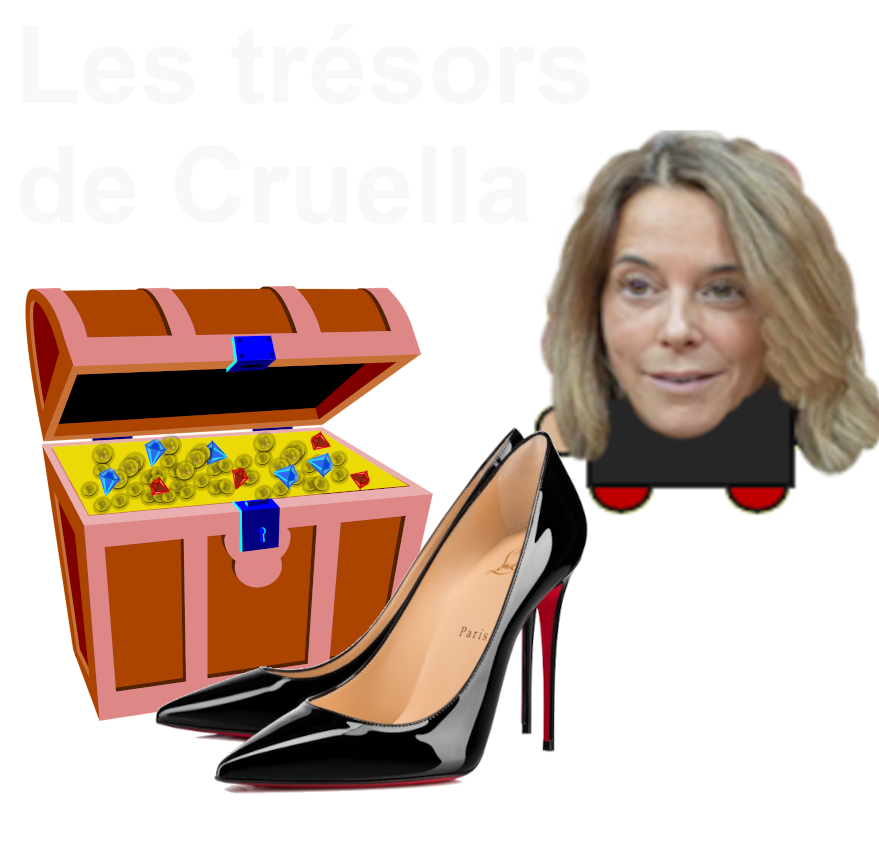
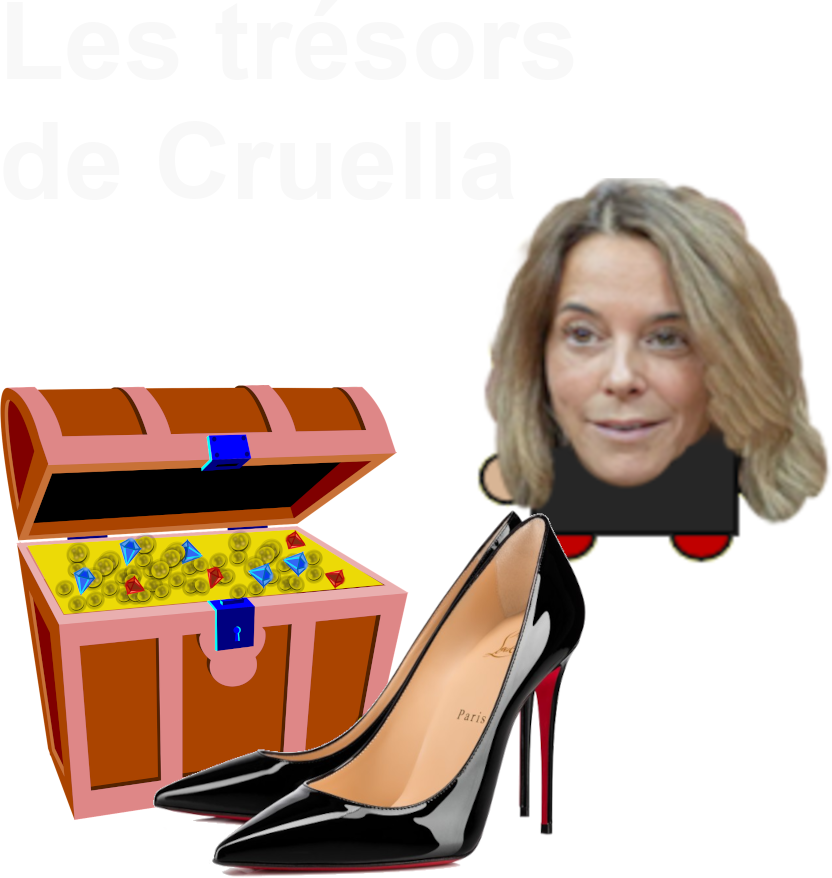
update intro

diff --git a/aventures2/intro.html b/aventures2/intro.html
@@ -133,14 +133,12 @@ Copyrights : Francis B. Lavoie et Adam Renquinha. TOUS DROITS RÉSERVÉS
 
 		<div style="position:absolute;top:88.5vh;left:0vw;width:100vw;background-color:#2F42F5;height:11.5vh;">
 		</div>
-		<img src="assets/img/tresors.png" style="top:3vh;left:3vw;width:94vw;height:auto;">
+		<img src="assets/img/tresors.png" style="top:3vh;left:3vw;width:94vw;height:auto;padding-top:2vh;padding-left:3vw;">
 		
 		<img class="logo" src="assets/img/avtlogo.PNG" style="position:absolute;top:90vh;height:8vh;left:70vw;width:auto;" onclick="window.open('https://fblavoie.github.io/3elien/', '_blank').focus();">
 
-		<div style="width:95vw;position:absolute;left:2.5vw;top:31.5vh;height:57vh;overflow:scroll;overflow-x:hidden;" id="menu">
-		</div>
 
-		<div id="next_level" onclick="map_menu()" class="btn" style="position:fixed;top:100vw;left:0vw;width:100vw;text-align:center;padding-top:10vw;padding-bottom:10vw;font-size:15vw;background-color:yellow;color:black;padding-left:1vw;padding-right:1vw;"><b>JOUER</b></div>
+		<div id="next_level" onclick="map_menu()" class="btn" style="position:fixed;top:120vw;left:0vw;width:100vw;text-align:center;padding-top:10vw;padding-bottom:10vw;font-size:15vw;background-color:yellow;color:black;padding-left:1vw;padding-right:1vw;"><b>JOUER</b></div>
 
 		
 		<script>
